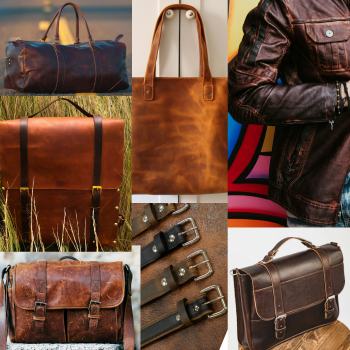
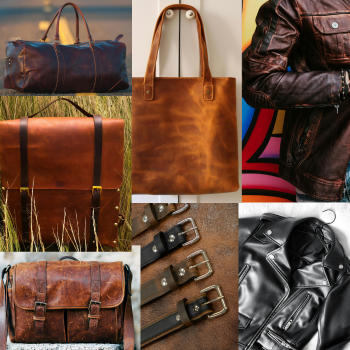
Update leather products

Changed region(s): [[0.6286, 0.0, 1.0, 1.0]]

diff --git a/index.html b/index.html
@@ -295,6 +295,12 @@
               <p class="carousel-desc">Our curated selection of sustainable bamboo products, blending eco-consciousness with style. From kitchenware to lifestyle essentials, discover the elegance and durability of bamboo in every item
               </p>
             </div>
+            <div class="products-cards">
+              <img data-lazy="./assets/leather.png" />
+              <p class="carousel-head m-2">Leather Products</p>
+              <p class="carousel-desc">Discover exquisite leather goods crafted with unparalleled quality and style. From luxurious handbags to timeless accessories, our curated collection embodies elegance and sophistication.
+              </p>
+            </div>
           </div>
         </div>
       </div>
